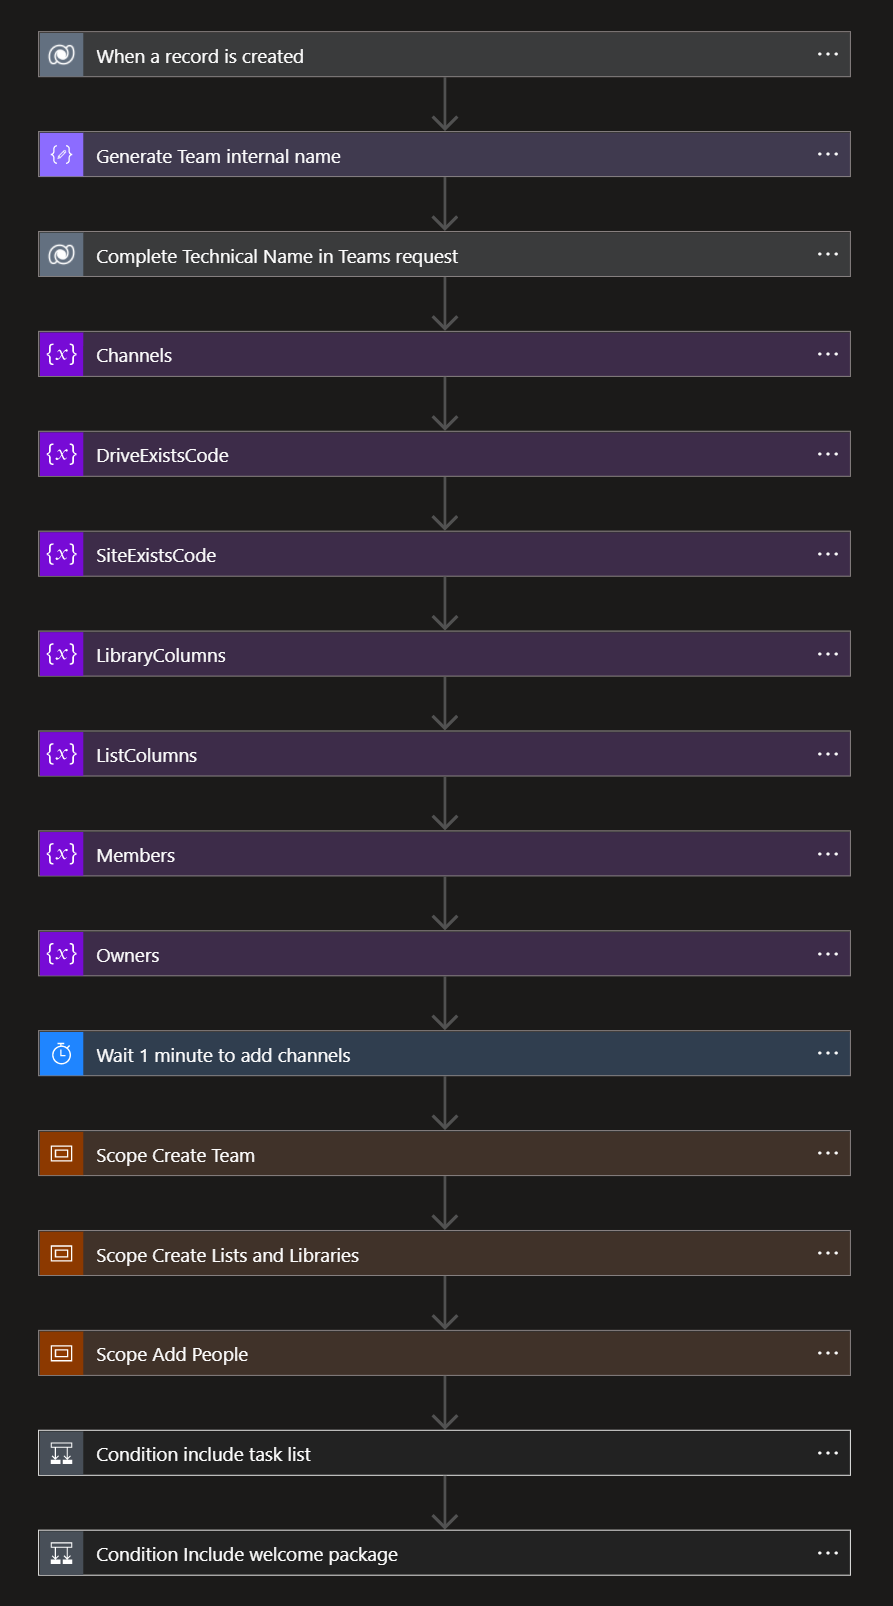
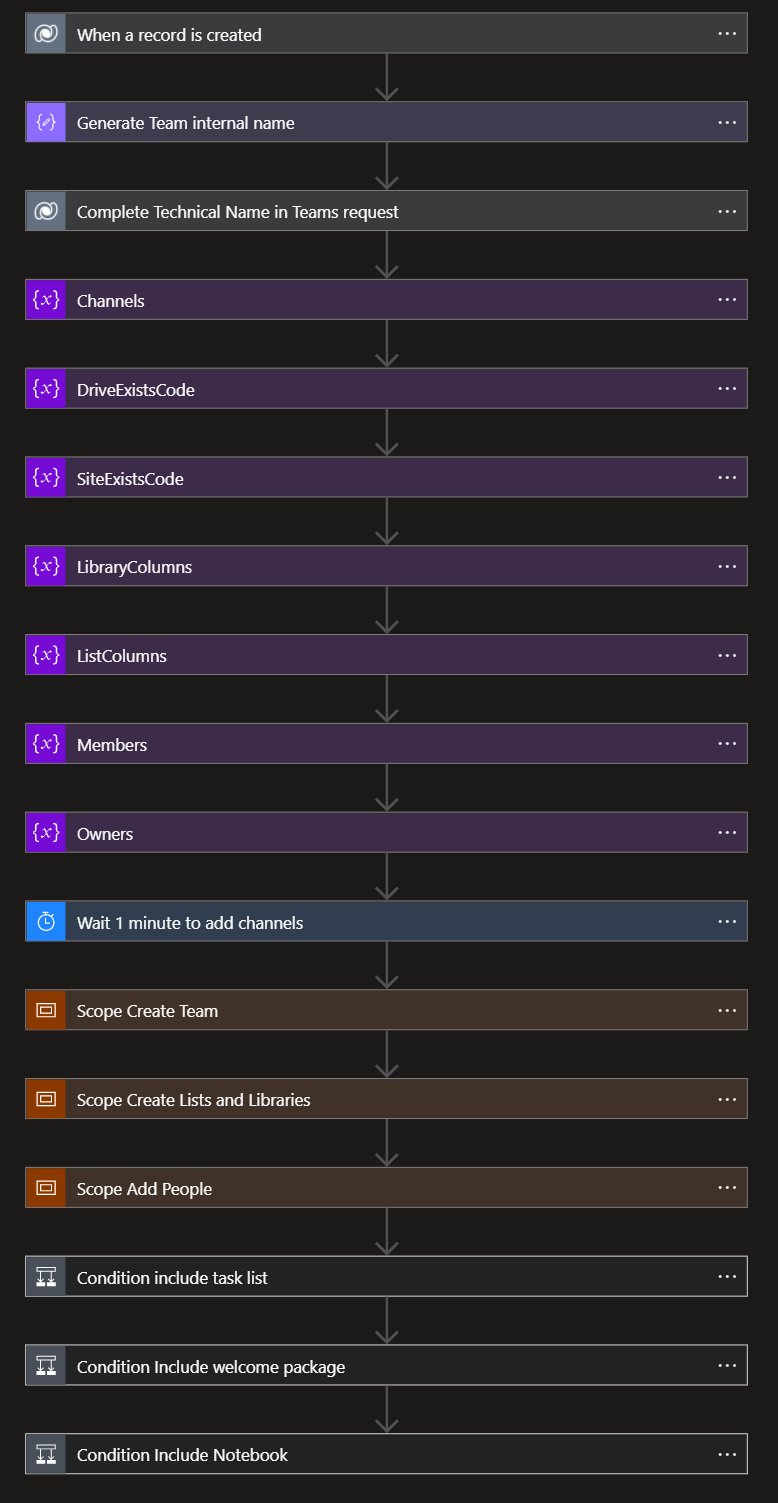
adjusts docs to reflect addNotebook feature

diff --git a/Docs/docs/corecomponents/logicapps.md b/Docs/docs/corecomponents/logicapps.md
@@ -2,7 +2,7 @@
 
 ![header image](../media/index/Genie_Header.png)
 
-We created 6 Azure Logic Apps to handle the provisioning of the Teams:
+We created 7 Azure Logic Apps to handle the provisioning of the Teams:
 
 Our flows pick up the values logged in the Dataverse tables to provision what the user requested:
 
@@ -13,6 +13,7 @@ Our flows pick up the values logged in the Dataverse tables to provision what th
     - [4. Create List/Library](#4-create-listlibrary)
     - [5. Create Task List](#5-create-task-list)
     - [6. Welcome Package](#6-welcome-package)
+    - [7. Add Notebook](#7-add-notebook)
 
 ### 1. Main flow
 
@@ -171,5 +172,21 @@ The welcome package adds a url with training material to the General channel of 
 4. A HTTP request lists the channels in the team
 5. The channel info is parsed
 6. The General channel is always the first channel returned when the channels are listed, this is extracted from the channel info
-7. An HTTP request is sent to add the training material url as a website tab in the new team's general channel
+7. An HTTP request is sent to add the training material URLas a website tab in the new team's general channel
 8. Respond to the request caller
+
+### 7. Add Notebook
+
+This flow adds the notebook of the SharePoint sites, that backs the team, to the channel **General** and creates the first section and the first page.
+
+![Add Notebook Overview](../media/corecomponents/LogicApps-AddNotebook.png)
+
+1. The Logic Apps is triggered from a HTTP request, for example as a child logic app
+2. An HTTP request lists the channels in the team
+3. An HTTP request triggers the creation of the Notebook in the site that backs the Team.
+4. An HTTP request gets the notebook information
+5. An HTTP request creates a section in the notebook
+6. An HTTP request creates a page in the notebook
+7. A variable is initialized for the `Notebook URL`
+8. An HTTP request adds the Notebook to the Channel **General**
+9. Respond to the request caller

diff --git a/Docs/docs/deploymentguide/1-registerapp.md b/Docs/docs/deploymentguide/1-registerapp.md
@@ -1,6 +1,6 @@
 # 1. Register application in Azure AD
 
-To access the Dataverse tables that you will import in step 2, you will first need to register an application an Azure AD. 
+To access the Dataverse tables that you will import in step 2, you will first need to register an application an Azure AD.
 
 - Open Azure cloud shell at [shell.azure.com](https://shell.azure.com)
 > This guide assumes the use of a PowerShell environment.
@@ -9,3 +9,10 @@ To access the Dataverse tables that you will import in step 2, you will first ne
     - `cd ./ProvisionGenie/Deployment/Scripts`
 - Run the script `./Create-AadAppRegistration.ps1`
 > Note that this will create the AAD App Registration in the  AAD tenant for current subscription with the name `ProvisionGenieApp`. If you wish to target another subscription or provide a custom name then optional parameters are available `./Create-AadAppRegistration.ps1 -SubscriptionId "00000000-0000-0000-0000-000000000000" -AadAppName MyCustomAadAppName`
+
+Also you will need the URL of your Microsoft 365 tenant. You can obtain this value like this:
+
+- Open [https://office.com](https://office.com)
+- Sign into the tenant you want to deploy ProvisionGenie in
+- Select the **SharePoint** icon
+- From the URL that should look like this `https://<your-tenant-name-here>.sharepoint.com/_layouts/15/sharepoint.aspx?` take this part: `https://<your-tenant-name-here>.sharepoint.com` and save it somewhere, you will need it later. 

diff --git a/Docs/docs/deploymentguide/3-deployazureresources.md b/Docs/docs/deploymentguide/3-deployazureresources.md
@@ -11,13 +11,14 @@ The scripted deployment will create a new resource group, by default this is nam
 - Execute the script `./Deploy-Solution.ps1` and supply the following parameters:
 > If you want to supply a custom resource group name, AAD App Registration Name, or deploy to a different subscription you may provide those as parameters when running the script `./Deploy-Solution.ps1 -ResourceGroupName MyResourceGroup -SubscriptionId "00000000-0000-0000-0000-000000000000" -AadAppName MyCustomAadAppName`
     - `Location` the Azure region to deploy into, e.g. `westeurope`
+    - `TenantURL` - you obtained this from the SharePoint app `https://<your-tenant-name-here>.sharepoint.com`
     - `DataverseEnvironmentId` You obtained this from Dataverse as **Instance URL**
     - `WelcomePackageUrl` the URL for learning material (if you don't know that for now, you can put `https://provisiongenie.com` or any other URL into it)
 - The script will run and deploy the Azure resources
 
 ## Validate deployment
 
-To confirm successful deployment and familiarize yourself with the components that have been deployed you should take a look at the resources which have been created in Azure. 
+To confirm successful deployment and familiarize yourself with the components that have been deployed you should take a look at the resources which have been created in Azure.
 
 ### Azure resources
 

diff --git a/Docs/docs/corecomponents/canvasapp.md b/Docs/docs/corecomponents/canvasapp.md
@@ -20,7 +20,9 @@ This is, what ProvisionGenie does:
     - Channels
     - Name of SharePoint list & columns
     - Name of SharePoint library & columns
-    - if Owner additionally wants a SharePoint list for task management (see also why we don't provision Planner in ProvisionGenie in our [Architecture Decisions](../architecturedecisions.md#no-microsoft-planner-provisioning)) or a "Welcome package"
+    - if Owner additionally wants a SharePoint list for task management (see also why we don't provision Planner in ProvisionGenie in our [Architecture Decisions](../architecturedecisions.md#no-microsoft-planner-provisioning))
+    - if Owner additionally wants the "Welcome package"
+    - if Owner additionally wants the Notebook of the SharePoint site that backs the Team ne pinned to the channel **General** as a tab
 - Patch 6 Dataverse tables with the information we got by user
 
 As a result of the provisioning process, we have
@@ -52,6 +54,7 @@ As a result of the provisioning process, we have
     - due date (date)
     - assigned person (person)
     - priority (choice [urgent, high, medium, low])
+- optional: Notebook tab in channel **General**
 
 For more context on how this canvas app fits into our solution, please head over to [Solution Overview](logicapps.md#solution-overview) and [Architecture Decisions](../architecturedecisions.md)
 

diff --git a/Docs/docs/architecturedecisions.md b/Docs/docs/architecturedecisions.md
@@ -108,4 +108,6 @@ Usually, a new Team also contains a Teams Wiki tab. The Wiki is a (hidden) Share
 
 As part of our provisioning process, we delete the Teams Wiki from all created channels. We believe, that the Wiki is not a good place to store any kind of knowledge in.
 
-Of course our decision to delete the Wikis from all initial channels does not prevent users from adding a Wiki tab to an existing or manually created channel, but at least it is not the default behavior in a new Team. In the future, we want to automatically add a OneNote notebook.
+Of course our decision to delete the Wikis from all initial channels does not prevent users from adding a Wiki tab to an existing or manually created channel, but at least it is not the default behavior in a new Team.
+
+Optionally, we add the Notebook of the SharePoint site that backs the team, as a tab to the Channel **General** and already add the first note there.

diff --git a/Docs/docs/corecomponents/howtobuildthecanvasapp.md b/Docs/docs/corecomponents/howtobuildthecanvasapp.md
@@ -347,6 +347,7 @@ Set(
   - description
   - whether our owner (= signed-in user) wants a 'WelcomePackage' or not
   - whether our owner wants a SharePoint list provisioned for task management
+  - whether our owner wants the Notebook of the SharePoint site, that backs the team, be pinned as a tab to the channel **General**
 
 We get the information by a form which is connected to a DataVerse table **Teams Requests** - see also [Solution Overview](logicapps.md#solution-overview)
 
@@ -481,7 +482,7 @@ This way, our user can review the list of members and even remove some of them a
 > This neat solution is described in more detail on [Carmen Ysewijn's blog](https://digipersonal.com/2021/04/22/canvas-app-ui-element-tag-box-list/)
 
 
-> Do the same for owners: Create a Combobox, add button, clear button, gallery. 
+> Do the same for owners: Create a Combobox, add button, clear button, gallery.
 
 #### Save button
 

diff --git a/Docs/docs/about/sessions.md b/Docs/docs/about/sessions.md
@@ -6,9 +6,10 @@ We talk and demo ProvisionGenie here:
 
 - upcoming
 
-    - [Hello World](https://aka.ms/helloworld) - join live Dec 16, 7pm CET / 10am PST
 
 - past
+   
+    - [Hello World](https://aka.ms/helloworld) - join live Dec 16, 7pm CET / 10am PST
     - [Microsoft 365 Development Community call](https://www.youtube.com/watch?v=YK-_t-MAquQ) - watch it on YouTube, recorded Nov 11, 2021, 7am PDT/4pm CEST
     - [Microsoft Power Apps community call](https://www.youtube.com/watch?v=5MY0fXBiazY) - watch it on YouTube, recorded on Nov 17, 2021
     - [PnP Weekly 138](https://www.youtube.com/watch?v=tFg1NJ_O7ag) - recorded on Oct 11, 2021

diff --git a/Docs/docs/index.md b/Docs/docs/index.md
@@ -14,7 +14,7 @@ ProvisionGenie is an app for [Microsoft Teams](https://www.microsoft.com/microso
 
 - [Power Apps Canvas App](corecomponents/canvasapp.md) which serves as our UI
 - [6 Dataverse tables](corecomponents/logicapps.md#solution-overview) where we log all Teams requests
-- [6 Azure Logic Apps flows](corecomponents/logicapps.md) which we use to provision the requested Teams
+- [7 Azure Logic Apps flows](corecomponents/logicapps.md) which we use to provision the requested Teams
 
 ## How to get started
 

diff --git a/Docs/docs/corecomponents/dataverse.md b/Docs/docs/corecomponents/dataverse.md
@@ -10,6 +10,7 @@ We chose Dataverse as our storage for all requests and created five tables:
     - TeamOwner
     - includeTaskList
     - includeWelcomePackage
+    - includeNotebook
 
 2. Each Team can have multiple channels, which we log in the **TeamsChannel** table, these are the most important columns:
     - Channelname
